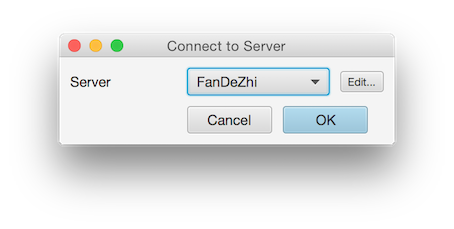
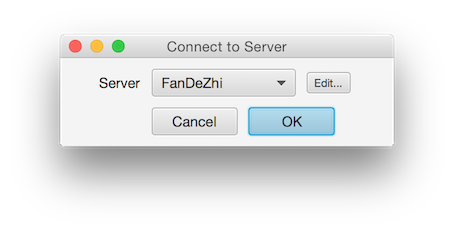
new image

diff --git a/src/com/bytezone/dm3270/application/Console.java b/src/com/bytezone/dm3270/application/Console.java
@@ -151,6 +151,7 @@ public class Console extends Application
       panel.getChildren ().addAll (row ("Server", serverComboBox, editServersButton),
                                    row ("", buttons ()));
       dialogStage.setTitle ("Connect to Server");
+      panel.setPadding (new Insets (0, 30, 0, 0));       // trbl
     }
     else
     {
@@ -159,7 +160,7 @@ public class Console extends Application
                      row ("Server", serverComboBox, editServersButton),
                      row ("Client", clientComboBox, editClientsButton),
                      //                     row ("Prevent 3270-E", prevent3270E),
-                     row ("Session file", fileComboBox),      //
+                     row ("Replay file", fileComboBox),      //
                      row ("", buttons ()));
       dialogStage.setTitle ("Choose Function");
       if (sessionFiles.size () == 0)
@@ -500,7 +501,7 @@ public class Console extends Application
     HBox row = new HBox (10);
     row.setAlignment (Pos.CENTER_LEFT);
     Label label = new Label (labelText);
-    label.setMinWidth (80);
+    label.setMinWidth (65);
     label.setAlignment (Pos.CENTER_RIGHT);
     row.getChildren ().add (label);
     for (Node node : field)
